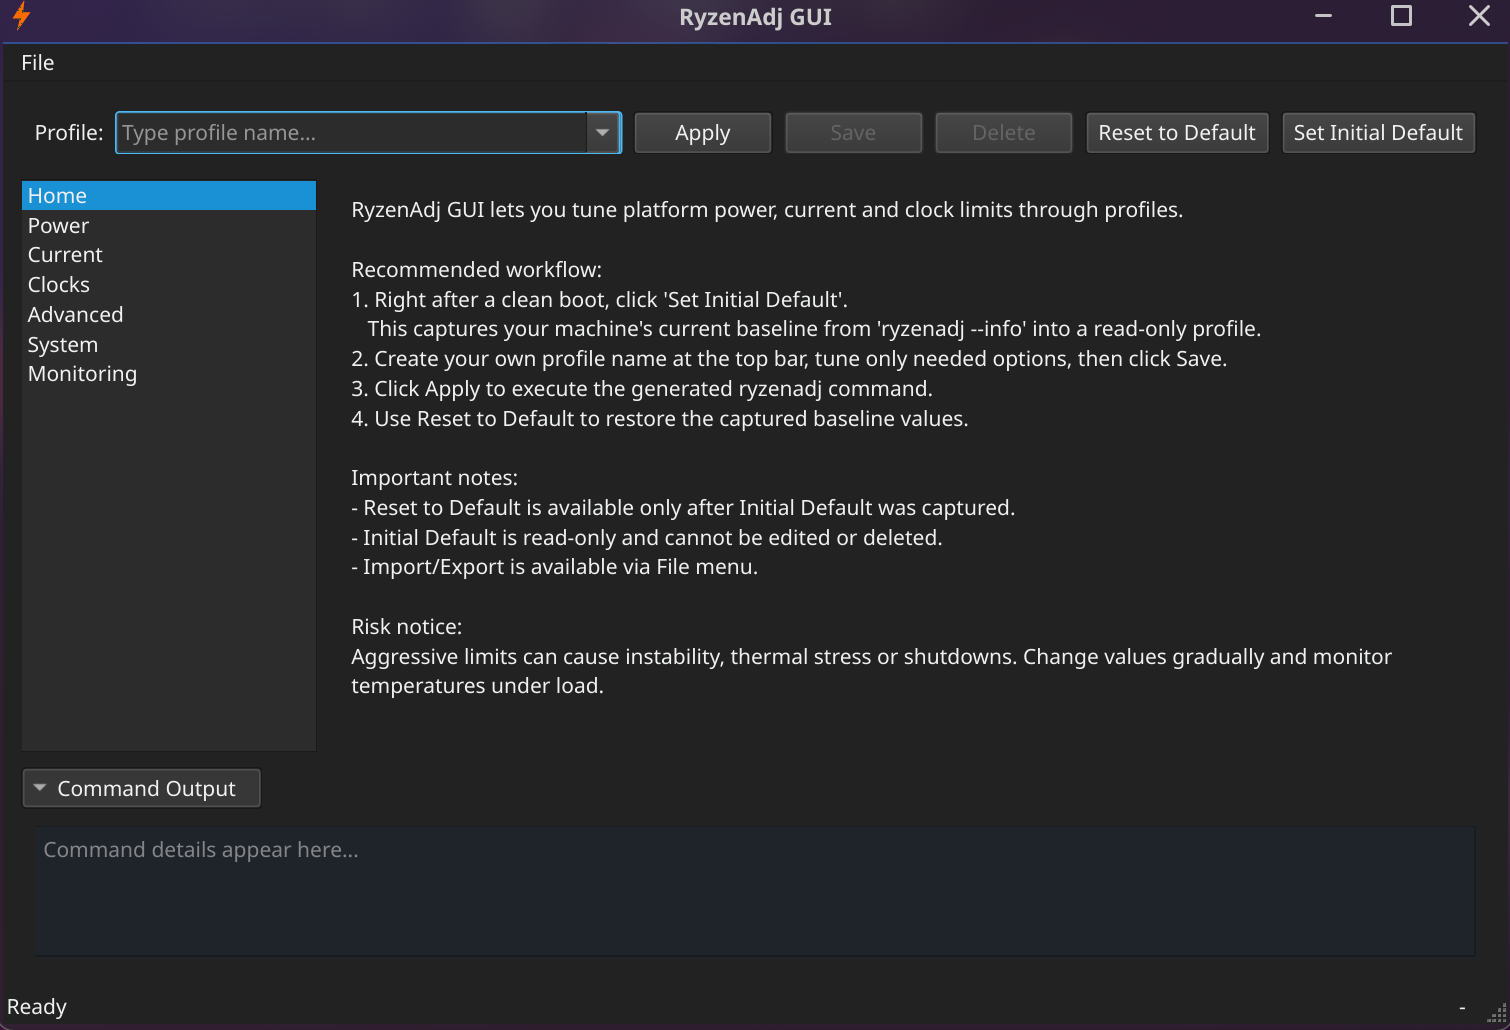
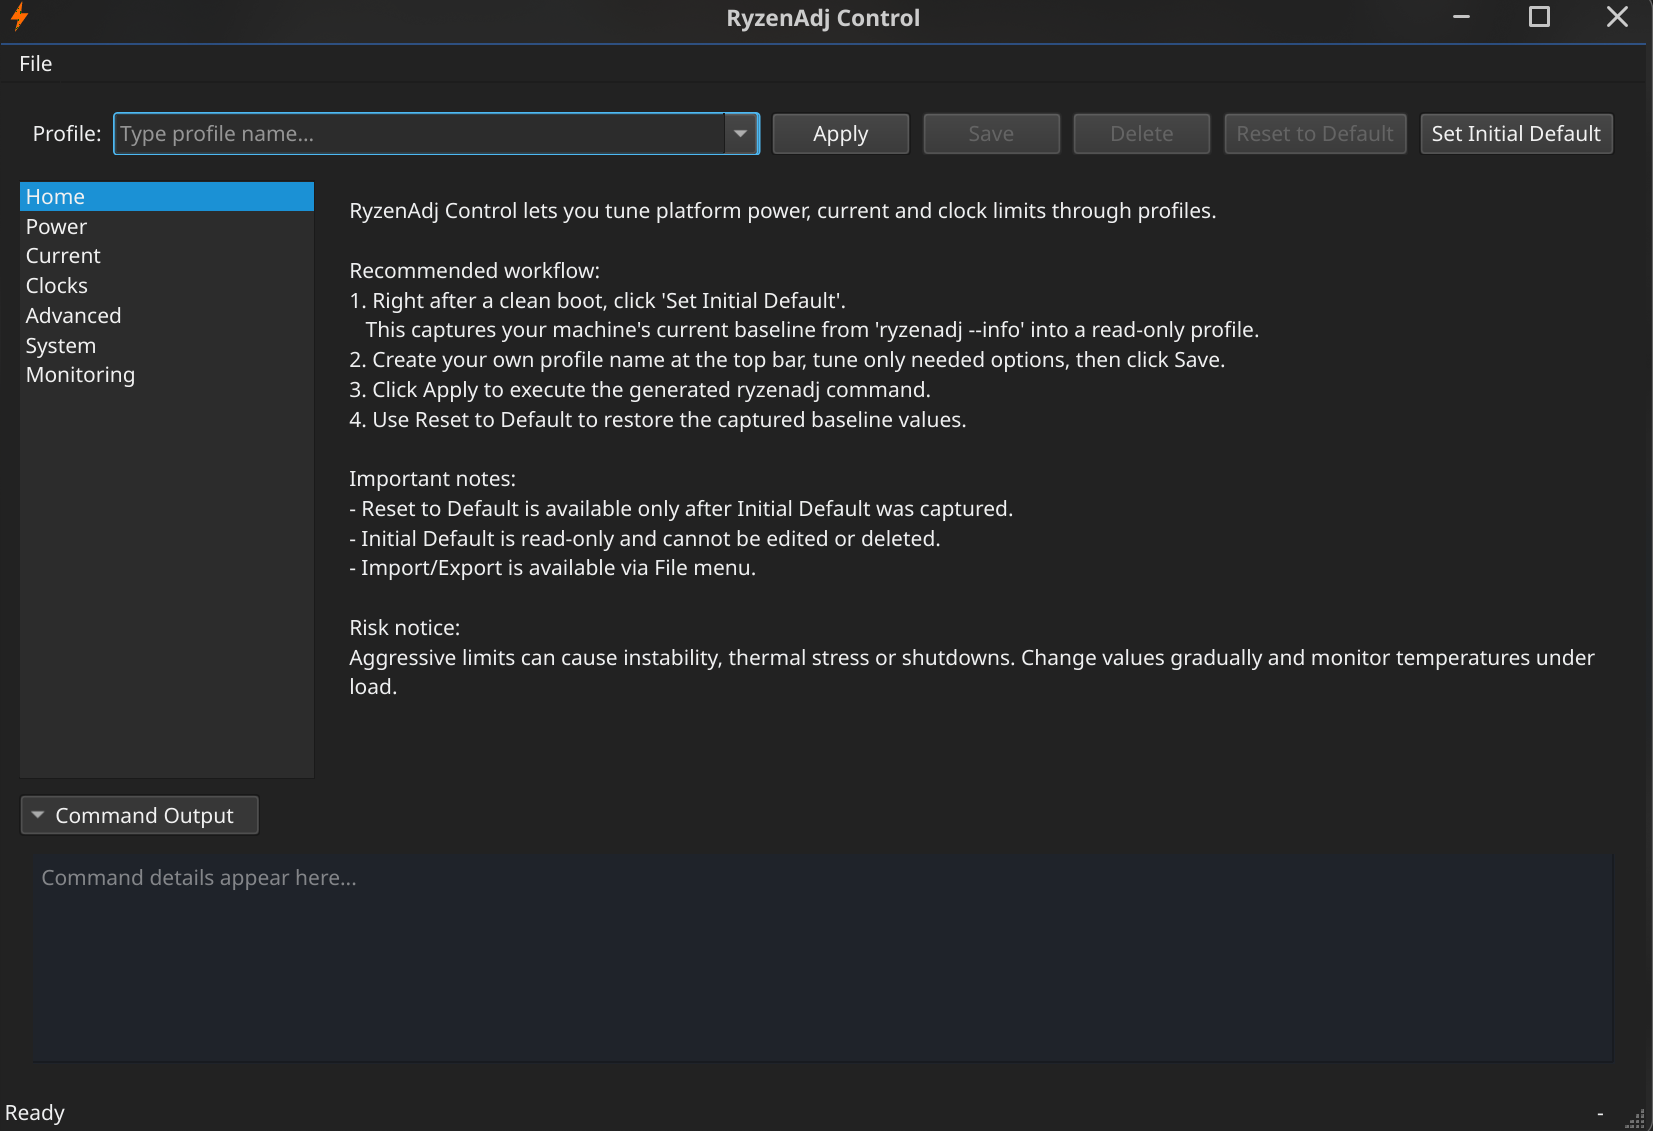
rename to ryzenadj-control

Changed region(s): [[0.0, 0.0, 1.0, 1.0], [0.0, 0.7146, 0.2179, 0.8388], [0.0, 0.9631, 0.0623, 1.0]]

diff --git a/core/systemd.py b/core/systemd.py
@@ -5,8 +5,8 @@ from __future__ import annotations
 import shlex
 from pathlib import Path
 
-SERVICE_PATH = Path("/etc/systemd/system/ryzenadj-gui.service")
-HOOK_PATH = Path("/usr/lib/systemd/system-sleep/ryzenadj-gui-resume")
+SERVICE_PATH = Path("/etc/systemd/system/ryzenadj-control.service")
+HOOK_PATH = Path("/usr/lib/systemd/system-sleep/ryzenadj-control-resume")
 
 
 class SystemdManager:
@@ -21,7 +21,7 @@ class SystemdManager:
         return "\n".join(
             [
                 "[Unit]",
-                "Description=Apply ryzenadj profile (ryzenadj-gui)",
+                "Description=Apply ryzenadj profile (ryzenadj-control)",
                 "After=multi-user.target",
                 "",
                 "[Service]",
@@ -67,17 +67,17 @@ class SystemdManager:
             script_lines.extend(
                 [
                     f"printf '%s' {quoted_service} > {SERVICE_PATH}",
-                    "chmod 644 /etc/systemd/system/ryzenadj-gui.service",
+                    "chmod 644 /etc/systemd/system/ryzenadj-control.service",
                     "systemctl daemon-reload",
-                    "systemctl enable ryzenadj-gui.service",
-                    "systemctl restart ryzenadj-gui.service || true",
+                    "systemctl enable ryzenadj-control.service",
+                    "systemctl restart ryzenadj-control.service || true",
                 ]
             )
         else:
             script_lines.extend(
                 [
-                    "systemctl disable ryzenadj-gui.service || true",
-                    "rm -f /etc/systemd/system/ryzenadj-gui.service",
+                    "systemctl disable ryzenadj-control.service || true",
+                    "rm -f /etc/systemd/system/ryzenadj-control.service",
                     "systemctl daemon-reload",
                 ]
             )
@@ -87,11 +87,11 @@ class SystemdManager:
             script_lines.extend(
                 [
                     f"printf '%s' {quoted_hook} > {HOOK_PATH}",
-                    "chmod 755 /usr/lib/systemd/system-sleep/ryzenadj-gui-resume",
+                    "chmod 755 /usr/lib/systemd/system-sleep/ryzenadj-control-resume",
                 ]
             )
         else:
-            script_lines.append("rm -f /usr/lib/systemd/system-sleep/ryzenadj-gui-resume")
+            script_lines.append("rm -f /usr/lib/systemd/system-sleep/ryzenadj-control-resume")
 
         return "\n".join(script_lines)
 
@@ -108,17 +108,17 @@ class SystemdManager:
             script_lines.extend(
                 [
                     f"printf '%s' {quoted_service} > {SERVICE_PATH}",
-                    "chmod 644 /etc/systemd/system/ryzenadj-gui.service",
+                    "chmod 644 /etc/systemd/system/ryzenadj-control.service",
                     "systemctl daemon-reload",
-                    "systemctl enable ryzenadj-gui.service",
-                    "systemctl restart ryzenadj-gui.service || true",
+                    "systemctl enable ryzenadj-control.service",
+                    "systemctl restart ryzenadj-control.service || true",
                 ]
             )
         else:
             script_lines.extend(
                 [
-                    "systemctl disable ryzenadj-gui.service || true",
-                    "rm -f /etc/systemd/system/ryzenadj-gui.service",
+                    "systemctl disable ryzenadj-control.service || true",
+                    "rm -f /etc/systemd/system/ryzenadj-control.service",
                     "systemctl daemon-reload",
                 ]
             )
@@ -138,10 +138,10 @@ class SystemdManager:
             script_lines.extend(
                 [
                     f"printf '%s' {quoted_hook} > {HOOK_PATH}",
-                    "chmod 755 /usr/lib/systemd/system-sleep/ryzenadj-gui-resume",
+                    "chmod 755 /usr/lib/systemd/system-sleep/ryzenadj-control-resume",
                 ]
             )
         else:
-            script_lines.append("rm -f /usr/lib/systemd/system-sleep/ryzenadj-gui-resume")
+            script_lines.append("rm -f /usr/lib/systemd/system-sleep/ryzenadj-control-resume")
 
         return "\n".join(script_lines)

diff --git a/ui/main_window.py b/ui/main_window.py
@@ -1,4 +1,4 @@
-"""Main application window for ryzenadj-gui."""
+"""Main application window for ryzenadj-control."""
 
 from __future__ import annotations
 
@@ -158,7 +158,7 @@ class MainWindow(QMainWindow):
 
     def __init__(self) -> None:
         super().__init__()
-        self.setWindowTitle("RyzenAdj GUI")
+        self.setWindowTitle("RyzenAdj Control")
         self.resize(940, 620)
         self.setMinimumSize(900, 600)
 
@@ -303,7 +303,7 @@ class MainWindow(QMainWindow):
         layout.setSpacing(10)
 
         description = QLabel(
-            "RyzenAdj GUI lets you tune platform power, current and clock limits through profiles.\n\n"
+            "RyzenAdj Control lets you tune platform power, current and clock limits through profiles.\n\n"
             "Recommended workflow:\n"
             "1. Right after a clean boot, click 'Set Initial Default'.\n"
             "   This captures your machine's current baseline from 'ryzenadj --info' into a read-only profile.\n"
@@ -415,7 +415,7 @@ class MainWindow(QMainWindow):
         integration_layout = QVBoxLayout(integration_group)
         self.apply_boot_checkbox = QCheckBox("Apply selected profile at system boot")
         self.apply_resume_checkbox = QCheckBox("Re-apply selected profile after resume")
-        self.start_gui_on_login_checkbox = QCheckBox("Start RyzenAdj GUI automatically after login")
+        self.start_gui_on_login_checkbox = QCheckBox("Start RyzenAdj Control automatically after login")
         self.auto_sync_integration_checkbox = QCheckBox(
             "Automatically update active boot/resume integration after profile switch"
         )
@@ -959,7 +959,7 @@ class MainWindow(QMainWindow):
     def _is_boot_integration_enabled(self) -> bool:
         try:
             proc = subprocess.run(
-                ["systemctl", "is-enabled", "ryzenadj-gui.service"],
+                ["systemctl", "is-enabled", "ryzenadj-control.service"],
                 check=False,
                 capture_output=True,
                 text=True,
@@ -969,10 +969,10 @@ class MainWindow(QMainWindow):
             return False
 
     def _is_resume_integration_enabled(self) -> bool:
-        return Path("/usr/lib/systemd/system-sleep/ryzenadj-gui-resume").exists()
+        return Path("/usr/lib/systemd/system-sleep/ryzenadj-control-resume").exists()
 
     def _gui_autostart_path(self) -> Path:
-        return Path.home() / ".config" / "autostart" / "ryzenadj-gui.desktop"
+        return Path.home() / ".config" / "autostart" / "ryzenadj-control.desktop"
 
     def _is_gui_autostart_enabled(self) -> bool:
         return self._gui_autostart_path().exists()
@@ -982,15 +982,15 @@ class MainWindow(QMainWindow):
         try:
             if enabled:
                 autostart_path.parent.mkdir(parents=True, exist_ok=True)
-                exec_command = "ryzenadj-gui"
-                if not Path("/usr/bin/ryzenadj-gui").exists():
+                exec_command = "ryzenadj-control"
+                if not Path("/usr/bin/ryzenadj-control").exists():
                     main_path = (Path(__file__).resolve().parent.parent / "main.py").as_posix()
                     exec_command = f"python {main_path}"
                 content = "\n".join(
                     [
                         "[Desktop Entry]",
                         "Type=Application",
-                        "Name=RyzenAdj GUI",
+                        "Name=RyzenAdj Control",
                         "Comment=Frontend for ryzenadj",
                         f"Exec={exec_command}",
                         "Icon=utilities-system-monitor",

diff --git a/main.py b/main.py
@@ -1,4 +1,4 @@
-"""Application entry point for ryzenadj-gui."""
+"""Application entry point for ryzenadj-control."""
 
 import sys
 from pathlib import Path
@@ -11,8 +11,8 @@ from ui.main_window import MainWindow
 
 def main() -> int:
     app = QApplication(sys.argv)
-    app.setApplicationName("ryzenadj-gui")
-    app.setOrganizationName("ryzenadj-gui")
+    app.setApplicationName("ryzenadj-control")
+    app.setOrganizationName("ryzenadj-control")
     icons_dir = Path(__file__).resolve().parent / "resources" / "icons"
     taskbar_icon_path = icons_dir / "logo-taskbar.svg"
     window_icon_png_path = icons_dir / "logo-window.png"

diff --git a/core/profiles.py b/core/profiles.py
@@ -1,4 +1,4 @@
-"""Profile persistence for ryzenadj-gui."""
+"""Profile persistence for ryzenadj-control."""
 
 from __future__ import annotations
 
@@ -17,7 +17,7 @@ class ProfileManager:
     """Load, save, import, and export tuning profiles."""
 
     def __init__(self, config_dir: Path | None = None) -> None:
-        base_dir = config_dir or Path.home() / ".config" / "ryzenadj-gui"
+        base_dir = config_dir or Path.home() / ".config" / "ryzenadj-control"
         self.config_dir = base_dir
         self.path = self.config_dir / "profiles.json"
         self.config_dir.mkdir(parents=True, exist_ok=True)

diff --git a/core/options.py b/core/options.py
@@ -1,4 +1,4 @@
-"""Option metadata for ryzenadj-gui."""
+"""Option metadata for ryzenadj-control."""
 
 from dataclasses import dataclass
 

diff --git a/README.md b/README.md
@@ -1,4 +1,4 @@
-# ryzenadj-gui
+# ryzenadj-control
 
 Native PyQt6 frontend for `ryzenadj` on Linux.
 
@@ -83,7 +83,7 @@ python main.py
 Profiles are saved in:
 
 ```text
-~/.config/ryzenadj-gui/profiles.json
+~/.config/ryzenadj-control/profiles.json
 ```
 
 Notes:
